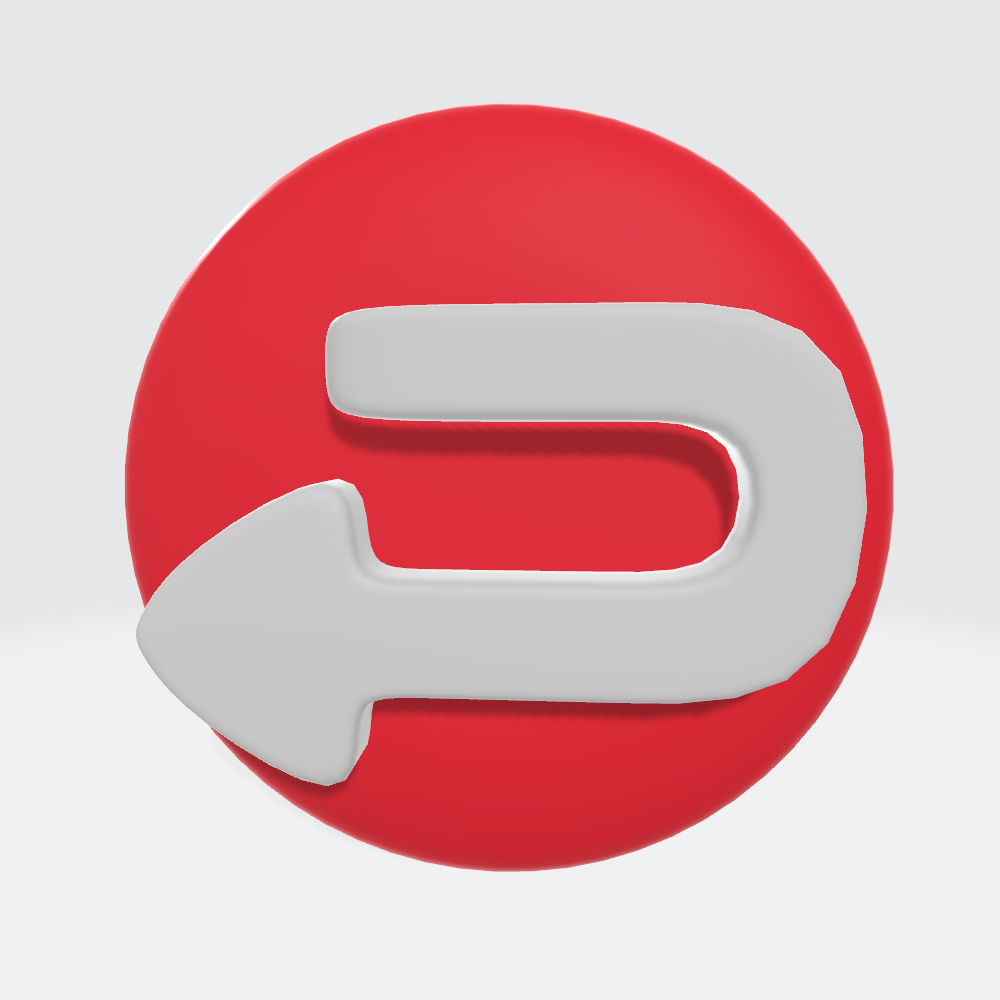
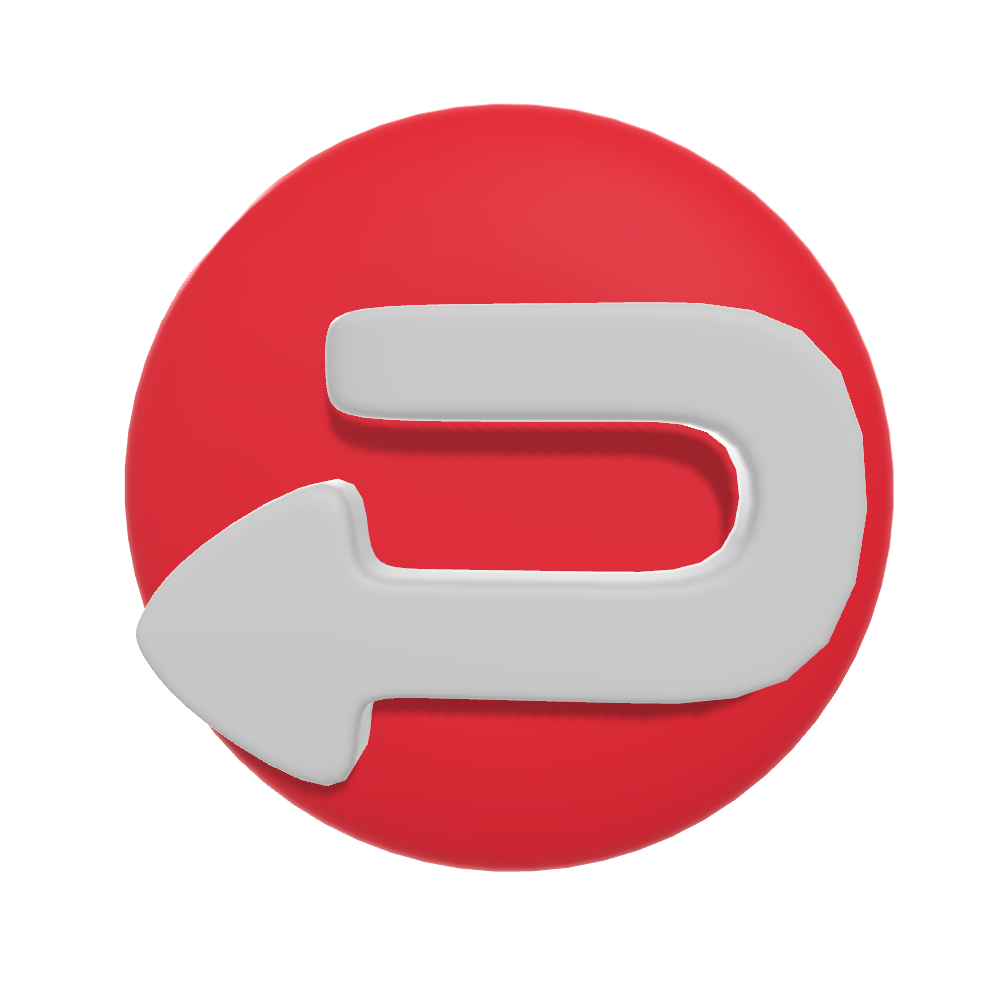
LQH: transparent PNGs + big visuals, Triage now setless
Triage
- Added 'triage' to setlessGameTypes so it no longer demands a question
  set picked from the lobby. The game runs its own self-contained patient
  spawning, life-timer, and CPR flow — same shape as sixseven / laiquhui /
  warmup / identity.

LQH visual scale-up (user: "everything is so small and minuscule")
- Chroma-keyed white backgrounds out of qu.png / lai.png / hui.png via
  flood-fill from the four corners + soft-feather edge pass. Now true
  transparent PNGs that sit naturally on the dark mission card / map.
  Script lives in scripts/chroma-key-verbs.js for repeatability.
- Mission mascot: width ~110-180px (was 56-92).
- Map dragon: inset -35% (was -10%) so the character looms over its tile
  like a hero, not a thumbnail.
- Mission pinyin text: clamp 1.4-1.9rem (was 1.1-1.5); strong: 1.7-2.2.
- Mission ES text: clamp 0.95-1.15 (was 0.78-0.92).
- Location icons: clamp 1.6-2.5rem (was 1-1.7); labels 0.62-0.95 (was
  0.45-0.72). Bigger glow on labels.
- Map size: max-width 98vw / 92vmin / 560px (was 94/80/460); max-height
  52dvh (was 38dvh). Map is now the dominant visual on the screen.

Cache-bust laiquhui.css -> 20260525d.

Changed region(s): [[0.0, 0.0, 1.0, 0.651]]

diff --git a/public/css/laiquhui.css b/public/css/laiquhui.css
@@ -266,18 +266,23 @@ body.lqh-bg .market-banner {
 .lqh-mission-verb-tag.verb-lai { background: #5be8d1; color: #003028; }
 .lqh-mission-verb-tag.verb-hui { background: #ff8a96; color: #320012; }
 /* The verb mascot (qu.png / lai.png / hui.png) lives on the left of the
-   mission card. Big, eye-catching, pops on every new round. */
+   mission card. BIG and eye-catching — these are transparent PNGs, so no
+   white box behind them. Scaled up dramatically per user request. */
 .lqh-mission-body {
   display: flex;
   align-items: center;
-  gap: 12px;
+  gap: 14px;
 }
 .lqh-mission-mascot {
-  width: clamp(56px, 16vmin, 92px);
-  height: clamp(56px, 16vmin, 92px);
+  width: clamp(110px, 30vmin, 180px);
+  height: clamp(110px, 30vmin, 180px);
   object-fit: contain;
   flex: 0 0 auto;
-  filter: drop-shadow(0 4px 10px rgba(0, 0, 0, 0.6)) drop-shadow(0 0 14px rgba(255, 213, 122, 0.5));
+  /* Glow without a background — transparent PNGs let the dark card show
+     through, so the character feels like it's standing in the scene. */
+  filter:
+    drop-shadow(0 6px 14px rgba(0, 0, 0, 0.65))
+    drop-shadow(0 0 22px rgba(255, 213, 122, 0.55));
 }
 .lqh-mission-mascot.lqh-mascot-pop {
   animation: lqh-mascot-pop 0.55s cubic-bezier(0.34, 1.56, 0.64, 1);
@@ -289,26 +294,26 @@ body.lqh-bg .market-banner {
 }
 .lqh-mission-text { flex: 1 1 auto; min-width: 0; }
 .lqh-mission-pinyin {
-  font-size: clamp(1.1rem, 4.6vmin, 1.5rem);
+  font-size: clamp(1.4rem, 5.8vmin, 1.9rem);
   font-weight: 900;
   color: #fff5d8;
-  text-align: center;
+  text-align: left;
   letter-spacing: 0.02em;
   line-height: 1.2;
   margin-top: 2px;
 }
 .lqh-mission-pinyin strong {
   color: #ffe66a;
-  font-size: clamp(1.3rem, 5.4vmin, 1.75rem);
-  text-shadow: 0 0 14px #ffe66a;
+  font-size: clamp(1.7rem, 6.8vmin, 2.2rem);
+  text-shadow: 0 0 16px #ffe66a;
   border-bottom: 2px dashed #ffe66a;
 }
 .lqh-mission-es {
-  text-align: center;
-  font-size: clamp(0.78rem, 2.8vmin, 0.92rem);
+  text-align: left;
+  font-size: clamp(0.95rem, 3.4vmin, 1.15rem);
   font-style: italic;
-  color: rgba(243, 233, 208, 0.78);
-  margin-top: 3px;
+  color: rgba(243, 233, 208, 0.85);
+  margin-top: 5px;
 }
 .lqh-mission-bar {
   margin-top: 8px;
@@ -341,9 +346,11 @@ body.lqh-bg .market-banner {
 }
 .lqh-map {
   width: 100%;
-  /* 10×8 aspect (1.25:1). Width still clamped to fit short phones. */
-  max-width: min(94vw, 80vmin, 460px);
-  max-height: 38dvh;
+  /* 10×8 aspect (1.25:1). Bigger now that the d-pad is a small single-row
+     strip + 4 locations only (was 5). Wider + taller for a beautiful
+     hero-sized board on every device. */
+  max-width: min(98vw, 92vmin, 560px);
+  max-height: 52dvh;
   aspect-ratio: 10 / 8;
   display: grid;
   grid-template-columns: repeat(10, 1fr) !important;
@@ -416,17 +423,17 @@ body.lqh-bg .market-banner {
   z-index: -1;
 }
 .lqh-loc-icon {
-  font-size: clamp(1rem, 4.4vmin, 1.7rem);
+  font-size: clamp(1.6rem, 6.5vmin, 2.5rem);
   line-height: 1;
-  filter: drop-shadow(0 2px 3px rgba(0, 0, 0, 0.55));
+  filter: drop-shadow(0 3px 5px rgba(0, 0, 0, 0.65));
 }
 .lqh-loc-pinyin {
-  font-size: clamp(0.45rem, 1.7vmin, 0.72rem);
+  font-size: clamp(0.62rem, 2.2vmin, 0.95rem);
   font-weight: 900;
   color: #3a1f00;
-  text-shadow: 0 1px 0 #ffe66a;
+  text-shadow: 0 1px 0 #ffe66a, 0 0 6px rgba(255, 230, 106, 0.6);
   white-space: nowrap;
-  margin-top: 1px;
+  margin-top: 2px;
 }
 .lqh-tile.target {
   animation: lqh-target-pulse 0.8s ease-in-out infinite alternate;
@@ -449,13 +456,16 @@ body.lqh-bg .market-banner {
 }
 .lqh-me {
   position: absolute;
-  /* Bigger than the tile so the qu/lai/hui PNG actually reads at this scale */
-  inset: -10%;
+  /* WAY bigger than the tile so the character actually reads as a hero in
+     the world. Transparent PNGs mean no white box even at this scale. */
+  inset: -35%;
   display: flex; align-items: center; justify-content: center;
   z-index: 5;
   pointer-events: none;
   animation: lqh-me-arrive 0.25s cubic-bezier(0.34, 1.56, 0.64, 1);
-  filter: drop-shadow(0 4px 10px rgba(0, 0, 0, 0.85)) drop-shadow(0 0 12px rgba(255, 213, 122, 0.55));
+  filter:
+    drop-shadow(0 6px 14px rgba(0, 0, 0, 0.9))
+    drop-shadow(0 0 18px rgba(255, 213, 122, 0.6));
 }
 .lqh-me img { width: 100%; height: 100%; object-fit: contain; }
 .lqh-me.emoji-fallback img { display: none; }

diff --git a/scripts/chroma-key-verbs.js b/scripts/chroma-key-verbs.js
@@ -1,0 +1,97 @@
+// One-shot: chroma-key the white backgrounds out of qu.png / lai.png /
+// hui.png so they no longer look like white rectangles when placed on the
+// dark mission card. Uses flood-fill from the four corners so only the
+// connected background pixels become transparent — never eats white
+// pixels that are part of the character.
+const path = require('path');
+const fs = require('fs');
+
+(async () => {
+  const jimpMod = require('jimp');
+  const Jimp = jimpMod.Jimp || jimpMod.default || jimpMod;
+  const files = ['qu.png', 'lai.png', 'hui.png'].map((f) =>
+    path.join(__dirname, '..', 'public', 'assets', f)
+  );
+
+  // A pixel is "background-white" if R/G/B are all this high AND it's
+  // currently opaque. 230 is generous enough to catch off-white shading
+  // around the edge of scanned/AI-generated PNGs without eating ivory
+  // highlights inside the character body.
+  const THRESHOLD = 228;
+
+  for (const file of files) {
+    if (!fs.existsSync(file)) {
+      console.log('SKIP (missing):', file);
+      continue;
+    }
+    const img = await Jimp.read(file);
+    const { width, height, data } = img.bitmap;
+    const visited = new Uint8Array(width * height);
+
+    function isWhite(x, y) {
+      const idx = (y * width + x) * 4;
+      return (
+        data[idx]     >= THRESHOLD &&
+        data[idx + 1] >= THRESHOLD &&
+        data[idx + 2] >= THRESHOLD &&
+        data[idx + 3] > 0
+      );
+    }
+
+    const stack = [];
+    // Seed from all four corners so we cover backgrounds even if the
+    // character touches one of them.
+    for (const [sx, sy] of [
+      [0, 0],
+      [width - 1, 0],
+      [0, height - 1],
+      [width - 1, height - 1],
+    ]) {
+      stack.push([sx, sy]);
+    }
+
+    while (stack.length) {
+      const [x, y] = stack.pop();
+      if (x < 0 || y < 0 || x >= width || y >= height) continue;
+      const i = y * width + x;
+      if (visited[i]) continue;
+      visited[i] = 1;
+      if (!isWhite(x, y)) continue;
+      data[i * 4 + 3] = 0;
+      // 4-neighbour flood
+      stack.push([x + 1, y], [x - 1, y], [x, y + 1], [x, y - 1]);
+    }
+
+    // Soft-feather pass: any pixel STILL opaque but adjacent to a now-
+    // transparent pixel AND mostly-white → reduce alpha. Kills the white
+    // halo line that flood-fill leaves around the character outline.
+    const featherCopy = new Uint8Array(data);
+    const FEATHER_THRESHOLD = 200;
+    for (let y = 1; y < height - 1; y++) {
+      for (let x = 1; x < width - 1; x++) {
+        const i = (y * width + x) * 4;
+        if (data[i + 3] === 0) continue;
+        const r = data[i], g = data[i + 1], b = data[i + 2];
+        if (r < FEATHER_THRESHOLD && g < FEATHER_THRESHOLD && b < FEATHER_THRESHOLD) continue;
+        // Check 4-neighbours in original copy
+        const neighbours = [
+          ((y - 1) * width + x) * 4 + 3,
+          ((y + 1) * width + x) * 4 + 3,
+          (y * width + x - 1) * 4 + 3,
+          (y * width + x + 1) * 4 + 3,
+        ];
+        const touchesTransparent = neighbours.some((ni) => featherCopy[ni] === 0);
+        if (touchesTransparent) {
+          // Scale alpha proportionally to how white the pixel is
+          const whiteness = (r + g + b) / 3;
+          const fade = Math.max(0, 1 - Math.max(0, whiteness - 200) / 55);
+          data[i + 3] = Math.round(data[i + 3] * fade);
+        }
+      }
+    }
+
+    await img.write(file);
+    console.log('chroma-keyed', path.basename(file), `${width}x${height}`);
+  }
+  console.log('done');
+})();

diff --git a/server.js b/server.js
@@ -1744,7 +1744,11 @@ io.on('connection', (socket) => {
     // generated server-side — sixseven, laiquhui). Don't gate them on
     // questions.length, otherwise Start silently does nothing and the
     // host has no idea why.
-    const setlessGameTypes = ['sixseven', 'laiquhui', 'warmup', 'identity'];
+    // Games that run their own self-contained mini-game logic and don't need
+    // a question set picked from the lobby. Triage spawns its own patients,
+    // LQH generates missions, Identity rolls suspects, Warmup is a teacher
+    // tool, SixSeven generates math on the fly.
+    const setlessGameTypes = ['sixseven', 'laiquhui', 'warmup', 'identity', 'triage'];
     if (!setlessGameTypes.includes(g.gameType) && !g.questions.length) return;
     if (Object.keys(g.players).length === 0) return;
     g.state = 'countdown';

diff --git a/public/host-laiquhui.html b/public/host-laiquhui.html
@@ -7,7 +7,7 @@
   <link href="https://fonts.googleapis.com/css2?family=Cinzel:wght@500;700;900&family=Nunito:wght@400;700;800;900&family=ZCOOL+XiaoWei&display=swap" rel="stylesheet">
   <link rel="stylesheet" href="/css/styles.css">
   <link rel="stylesheet" href="/css/dralingo.css">
-  <link rel="stylesheet" href="/css/laiquhui.css?v=20260525b">
+  <link rel="stylesheet" href="/css/laiquhui.css?v=20260525d">
 </head>
 <body class="lqh-bg">
   <button class="muted-toggle" id="mute-btn">🔊 On</button>

diff --git a/public/player.html b/public/player.html
@@ -19,7 +19,7 @@
   <link rel="stylesheet" href="/css/zombie.css?v=20260517b">
   <link rel="stylesheet" href="/css/family.css?v=20260520c">
   <link rel="stylesheet" href="/css/triage.css?v=20260524d">
-  <link rel="stylesheet" href="/css/laiquhui.css?v=20260525b">
+  <link rel="stylesheet" href="/css/laiquhui.css?v=20260525d">
   <link rel="stylesheet" href="/css/warmup.css?v=20260524f">
   <link rel="stylesheet" href="/css/identity.css?v=20260525a">
 </head>
